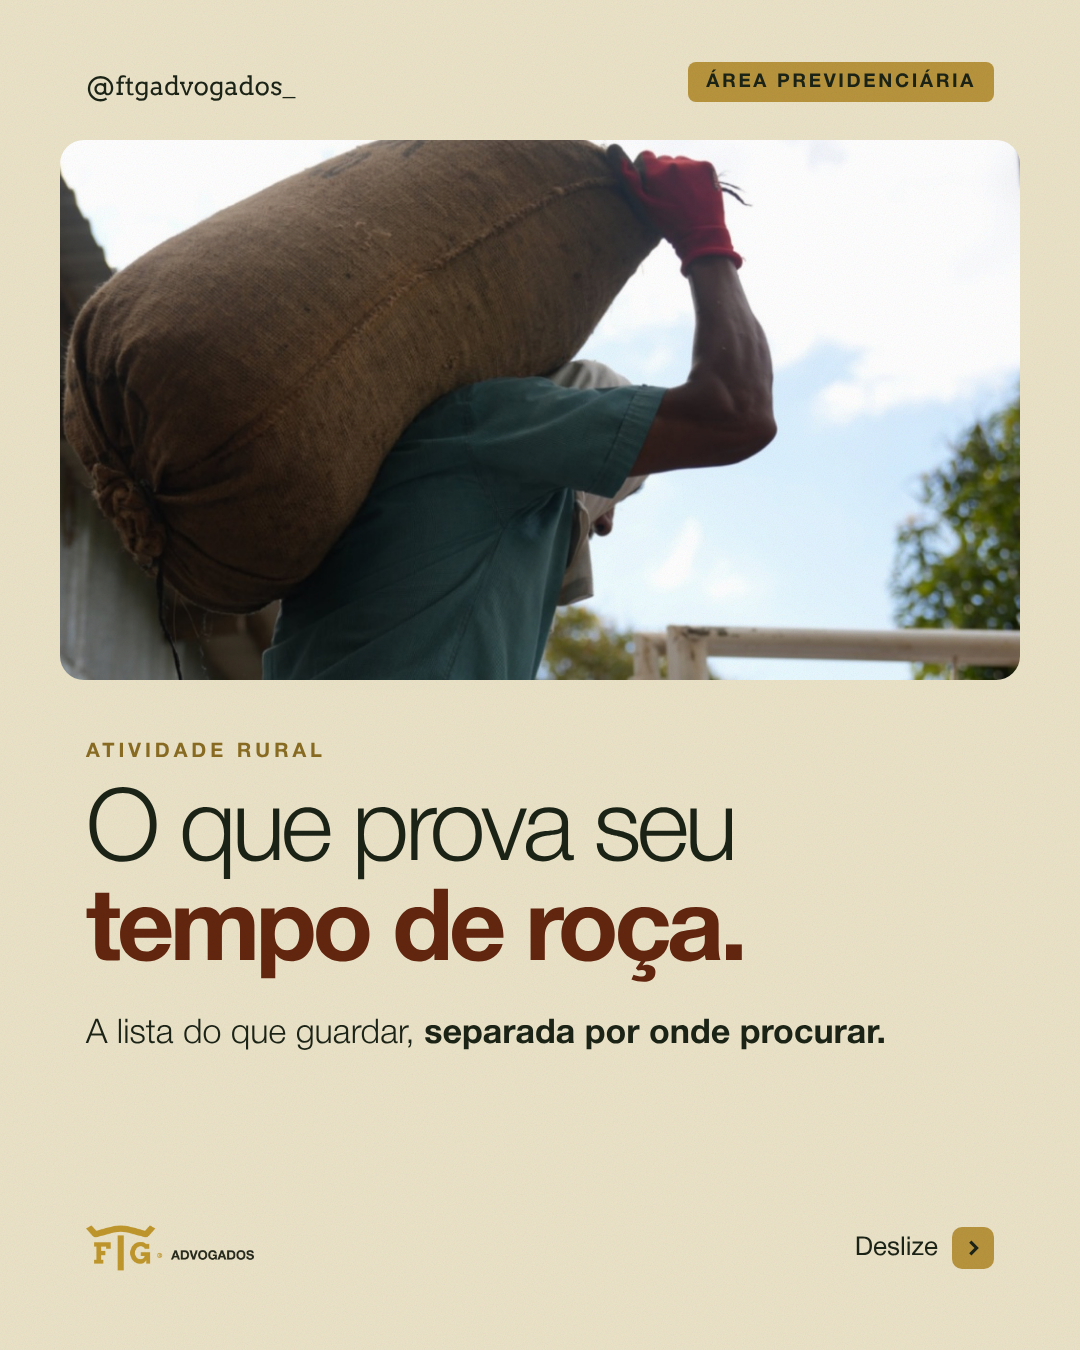
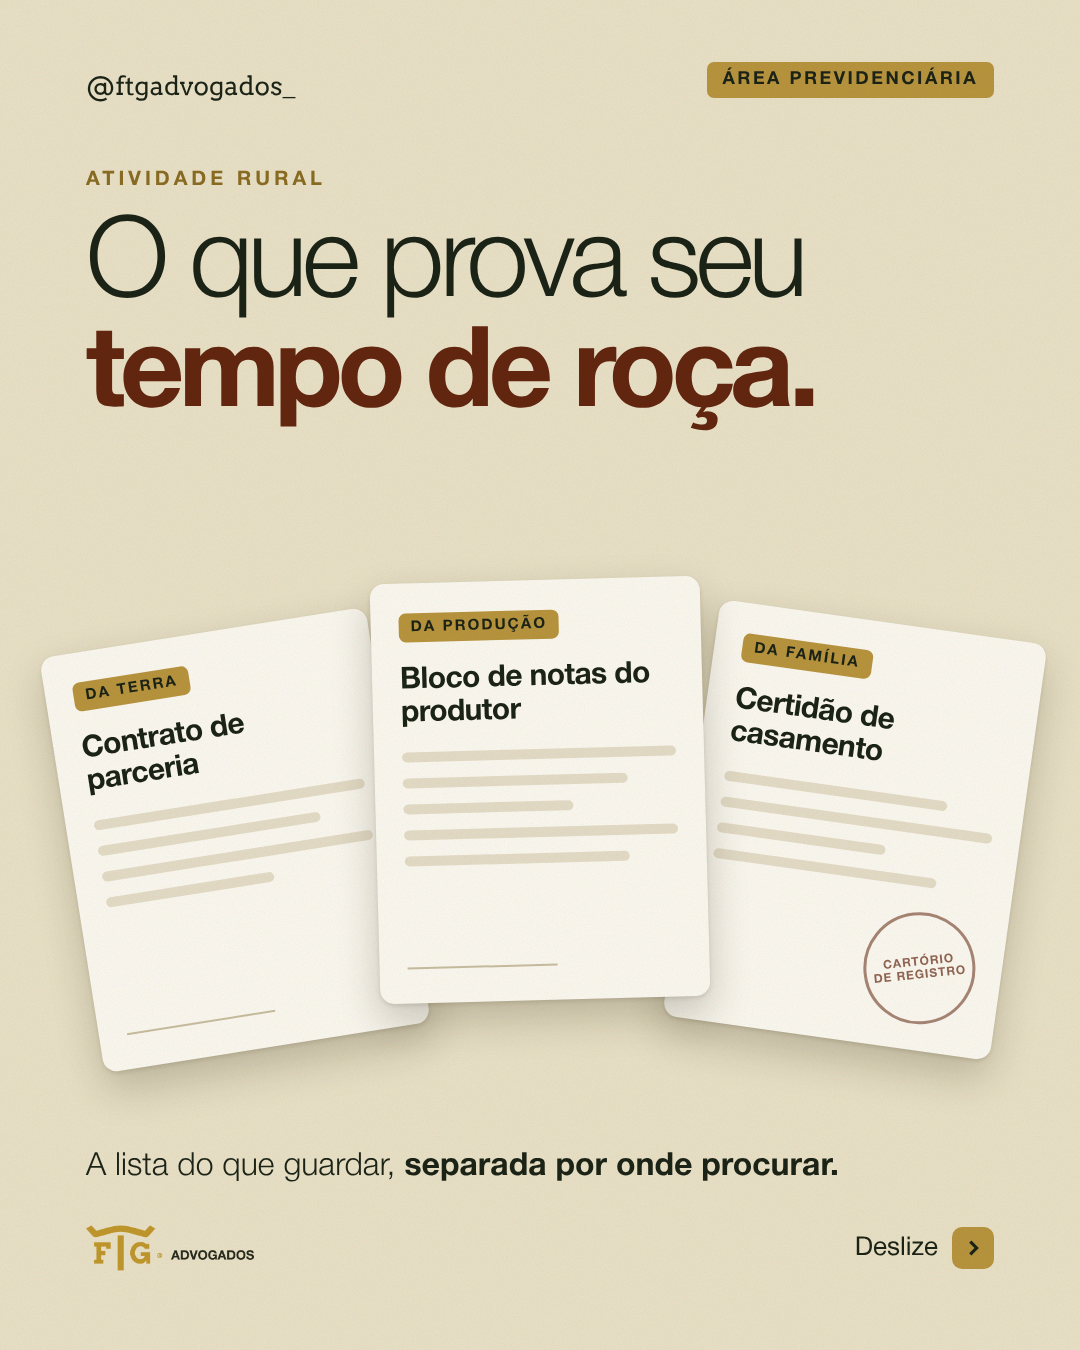
Capa nova do 18/11, com os documentos desenhados
Claude-Session: https://claude.ai/code/session_01P4d7pDXSyhkanGB3aZGg4D

diff --git a/docs/gorayeb/diario.md b/docs/gorayeb/diario.md
@@ -1170,3 +1170,11 @@ barrada pela permissão da sessão. O Drive tem as pastas `FOTOS GORAYEB` e
 conector entrega o arquivo como texto dentro da conversa, o que não dá pra
 fazer foto por foto. O caminho que funciona é o Victor mandar as escolhidas em
 zip, como fez com o sofá e o Roberto, que chegaram em resolução cheia.
+- **Capa do 18/11 trocada: não repetir modelo.** A primeira repetia o cartão de
+  foto da capa do BPC, uma semana antes. A nova é sem foto, em creme: título
+  grande em Helvetica com peso misturado e três documentos desenhados sobre a
+  "mesa" (contrato de parceria, bloco de notas do produtor, certidão com
+  carimbo de cartório), cada um com a etiqueta da origem. É a regra "quando a
+  pauta tem coisa concreta, desenha a coisa", e ainda escapa da foto pobre.
+  Sequência de capas agora: 11/11 cartão de foto, 13/11 foto escurecendo,
+  18/11 documentos desenhados, 20/11 tipográfica escura.
